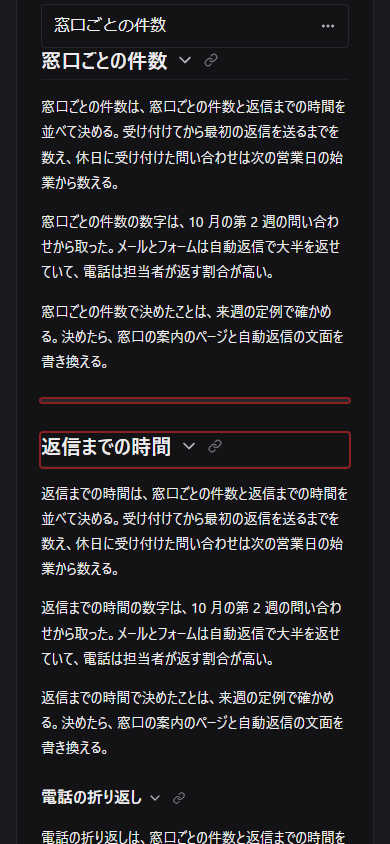
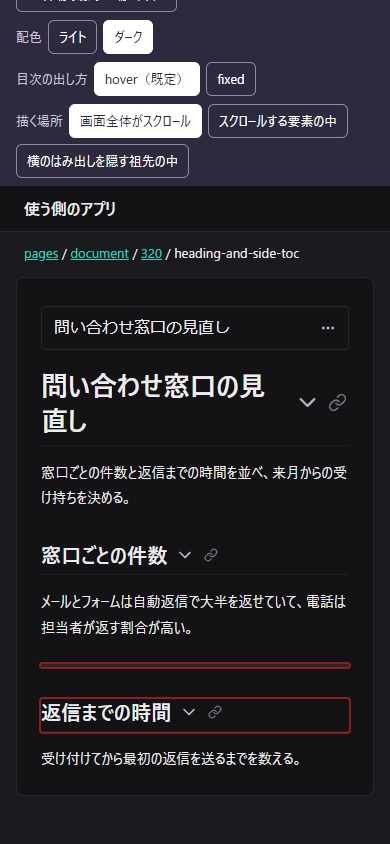
mock: hover で開く位置の案 A を文書のどこでも見えている枠の上端にし、狭い幅は短い文書で描く（#286 のレビューの指摘）

diff --git a/dev/mock/refs/320/assets/proposal.js b/dev/mock/refs/320/assets/proposal.js
@@ -57,7 +57,7 @@ function scrollParent(element) {
   return null;
 }
 
-/** 案 A の位置: 目次の枠の上端を、見えている枠の上端と描いた文書の上端の低いほうに合わせ、右端を右側の目次の右端に合わせ、右端の線の上端まで届く最小の高さを入れる */
+/** 案 A の位置: 目次の枠の上端を、文書のどこを読んでいても見えている枠の上端に合わせ、右端を右側の目次の右端に合わせ、右端の線の上端まで届く最小の高さを入れる */
 export function followRail(aside) {
   const root = aside.closest(".mdmark");
   const rail = aside.querySelector(".mdmark-side-toc-rail");
@@ -65,10 +65,11 @@ export function followRail(aside) {
   const update = () => {
     const style = getComputedStyle(root);
     const stickyTop = Number.parseFloat(style.getPropertyValue("--mdmark-sticky-top")) || 0;
-    const space = Number.parseFloat(style.getPropertyValue("--mdmark-space")) * Number.parseFloat(style.fontSize);
+    // --mdmark-space は rem の値: ルートの文字の大きさで px にする
+    const space = Number.parseFloat(style.getPropertyValue("--mdmark-space")) * Number.parseFloat(getComputedStyle(document.documentElement).fontSize);
     // 見えている枠の上端: スクロールする要素の中なら要素の上端、画面全体なら画面の上端
     const frameTop = (scroller ? scroller.getBoundingClientRect().top : 0) + stickyTop;
-    const top = Math.max(frameTop, root.getBoundingClientRect().top) + space;
+    const top = frameTop + space;
     aside.style.setProperty("--proposal-panel-top", `${top}px`);
     aside.style.setProperty("--proposal-panel-end", `${document.documentElement.clientWidth - aside.getBoundingClientRect().right}px`);
     // 線から枠へポインターを動かしても hover が切れないよう、枠の下端を線の上から 3 本分の位置より下にする
@@ -76,7 +77,9 @@ export function followRail(aside) {
     aside.style.setProperty("--proposal-panel-min-height", `${Math.max(reach, 0)}px`);
   };
   update();
-  (scroller ?? window).addEventListener("scroll", update, { passive: true });
+  // スクロールする要素の中でも、画面全体のスクロールで要素の位置が変わるため両方で決め直す
+  scroller?.addEventListener("scroll", update, { passive: true });
+  addEventListener("scroll", update, { passive: true });
   addEventListener("resize", update);
 }
 

diff --git a/dev/mock/refs/320/assets/scene.js b/dev/mock/refs/320/assets/scene.js
@@ -46,8 +46,20 @@ function paragraphs(topic) {
   ].join("\n\n");
 }
 
-/** 描く文書: 見出し 1 の下に見出し 2・見出し 3 を並べ、節の間に区切り線を置く */
-const markdown = [
+/** 狭い幅（右側の目次が帯になる 48rem 未満）: 帯と見出しの線・区切り線だけを確かめるため、短い文書を描く */
+const NARROW = matchMedia("(width < 48rem)").matches;
+
+/** 狭い幅の文書: 見出し 1 の下に見出し 2 を 2 つと区切り線を置き、段落は 1 つずつにする */
+const shortMarkdown = [
+  "# 問い合わせ窓口の見直し",
+  "窓口ごとの件数と返信までの時間を並べ、来月からの受け持ちを決める。",
+  "## 窓口ごとの件数\n\nメールとフォームは自動返信で大半を返せていて、電話は担当者が返す割合が高い。",
+  "---",
+  "## 返信までの時間\n\n受け付けてから最初の返信を送るまでを数える。",
+].join("\n\n");
+
+/** 広い幅の文書: 見出し 1 の下に見出し 2・見出し 3 を並べ、節の間に区切り線を置く。hover で開く位置を確かめるため画面より長くする */
+const longMarkdown = [
   "# 問い合わせ窓口の見直し",
   "窓口ごとの件数と返信までの時間を並べ、来月からの受け持ちを決める。",
   `## 導入\n\n${paragraphs("導入")}`,
@@ -61,6 +73,8 @@ const markdown = [
   `## 受け持ちの組み替え\n\n${paragraphs("受け持ちの組み替え")}`,
   `## 来月の予定\n\n${paragraphs("来月の予定")}`,
 ].join("\n\n");
+
+const markdown = NARROW ? shortMarkdown : longMarkdown;
 
 /** 要素が現れるまで待つ */
 async function waitFor(selector) {

diff --git a/dev/mock/refs/320/assets/proposal.css b/dev/mock/refs/320/assets/proposal.css
@@ -65,7 +65,7 @@
 
 /* ---------- hover で開く目次の位置 ---------- */
 
-/* A（推奨）: 目次の枠を画面に固定し、上端を「見えている枠の上端（スクロールする場所の上端に --mdmark-sticky-top を足した位置）と、描いた文書の上端の低いほう」に余白を足した位置に出す。
+/* A（推奨）: 目次の枠を画面に固定し、上端を、文書のどこを読んでいても見えている枠の上端（スクロールする場所の上端に --mdmark-sticky-top を足した位置）に余白を足した位置に出す。
    上端・横の位置・右端の線まで届く最小の高さは proposal.js がスクロールのたびに入れる */
 :root[data-position="viewport"] .mdmark .mdmark-side-toc[data-mode="hover"]:not([data-pinned]) .mdmark-side-toc-panel {
   position: fixed;

diff --git a/dev/pr/320/要件.md b/dev/pr/320/要件.md
@@ -53,13 +53,13 @@
 
 | 案 | 内容 | メリット | デメリット |
 | --- | --- | --- | --- |
-| A | 目次の枠を画面に固定し、上端を「見えている枠の上端（スクロールする場所の上端に `--mdmark-sticky-top` を足した位置）と、描いた文書の上端の低いほう」に `--mdmark-space` を足した位置に出す。枠は右端の線の上から 3 本分の位置まで届く高さを持つ | 右側の目次が画面に留まらない使う側のページでも、見えている枠の上端に出る。使う側のトップバーには重ならない | 位置を決める処理がスクロールのたびに要る |
+| A | 目次の枠を画面に固定し、上端を、文書のどこを読んでいても見えている枠の上端（スクロールする場所の上端に `--mdmark-sticky-top` を足した位置）に `--mdmark-space` を足した位置に出す。枠は右端の線の上から 3 本分の位置まで届く高さを持つ | 文書のどこを読んでいても同じ位置に出る（#286 の決定と単一 UC のシナリオのとおり）。右側の目次が画面に留まらない使う側のページでも、見えている枠の上端に出る | 文書の先頭では、画面に留めていない使う側のトップバーに枠が重なる（留めているトップバーは `--mdmark-sticky-top` で避けられる）。位置を決める処理がスクロールのたびに要る |
 | B | 今のまま、右側の目次（`position: sticky`）の上端に合わせて出す | 変更が要らない | 右側の目次が画面に留まらない使う側のページでは、目次の線と一緒に枠も画面の外へ流れる |
 
 推奨: A
 
 Notion の右側の目次（[再現した実装](https://github.com/roseline124/custom-js)）は、目次の線と枠をどちらも画面に固定し、枠の上端を線の上端に合わせて出す。
-モックでは、画面全体がスクロールする場合とスクロールする要素の中では A と B の位置の差は 3px ほどで、差が出るのは祖先の `overflow-x: hidden` などで右側の目次が画面に留まらない場合だった。
+モックでは、B は文書の先頭で右側の目次の上端（描いた文書の上端の下）に出て、スクロールした後は画面の上端に出るため、読む位置で出る場所が変わる。祖先の `overflow-x: hidden` などで右側の目次が画面に留まらない場合は、枠も画面の外へ流れる。
 ユーザーが下寄りに見えた画面（MindStella のプレビューなど）がどの場合に当たるかは、モックの確認でユーザーに確かめる。
 目次の線そのものを画面に留める変更は [#285](https://github.com/shuhei1101/mdmark/issues/285)・[#270](https://github.com/shuhei1101/mdmark/issues/270) の範囲。
 
